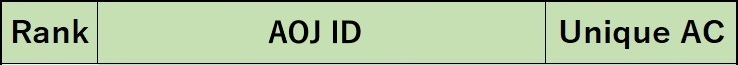
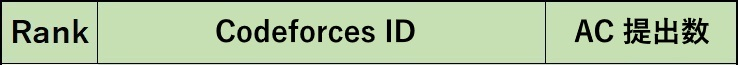
CF-ranking: 諸修正

Changed region(s): [[0.2805, 0.2769, 0.561, 0.6769], [0.748, 0.2769, 0.9973, 0.7385]]

diff --git a/CF/ranking.py b/CF/ranking.py
@@ -152,7 +152,7 @@ def ranking():
             else:
                 countNum = countNum + 1
         if countRankNum + countNum - 1 <= 3:
-            countTweetText += str(countRankNum) + " 位 " + newACCount[idx]["user_id"] + " ( @" + str(TwitterID[myIndex(newACCount[idx]["user_id"],CFID)]) + " ) " + str(newACCount[idx]["count"]) + " Unique AC\n"
+            countTweetText += str(countRankNum) + " 位 " + newACCount[idx]["user_id"] + " ( @" + str(TwitterID[myIndex(newACCount[idx]["user_id"],CFID)]) + " ) " + str(newACCount[idx]["count"]) + " AC\n"
         else:
             break
     api.update_with_media(filename = "CF/data/countRankingImg_fixed.jpg", status = countTweetText + "\n" + timeStamp)
